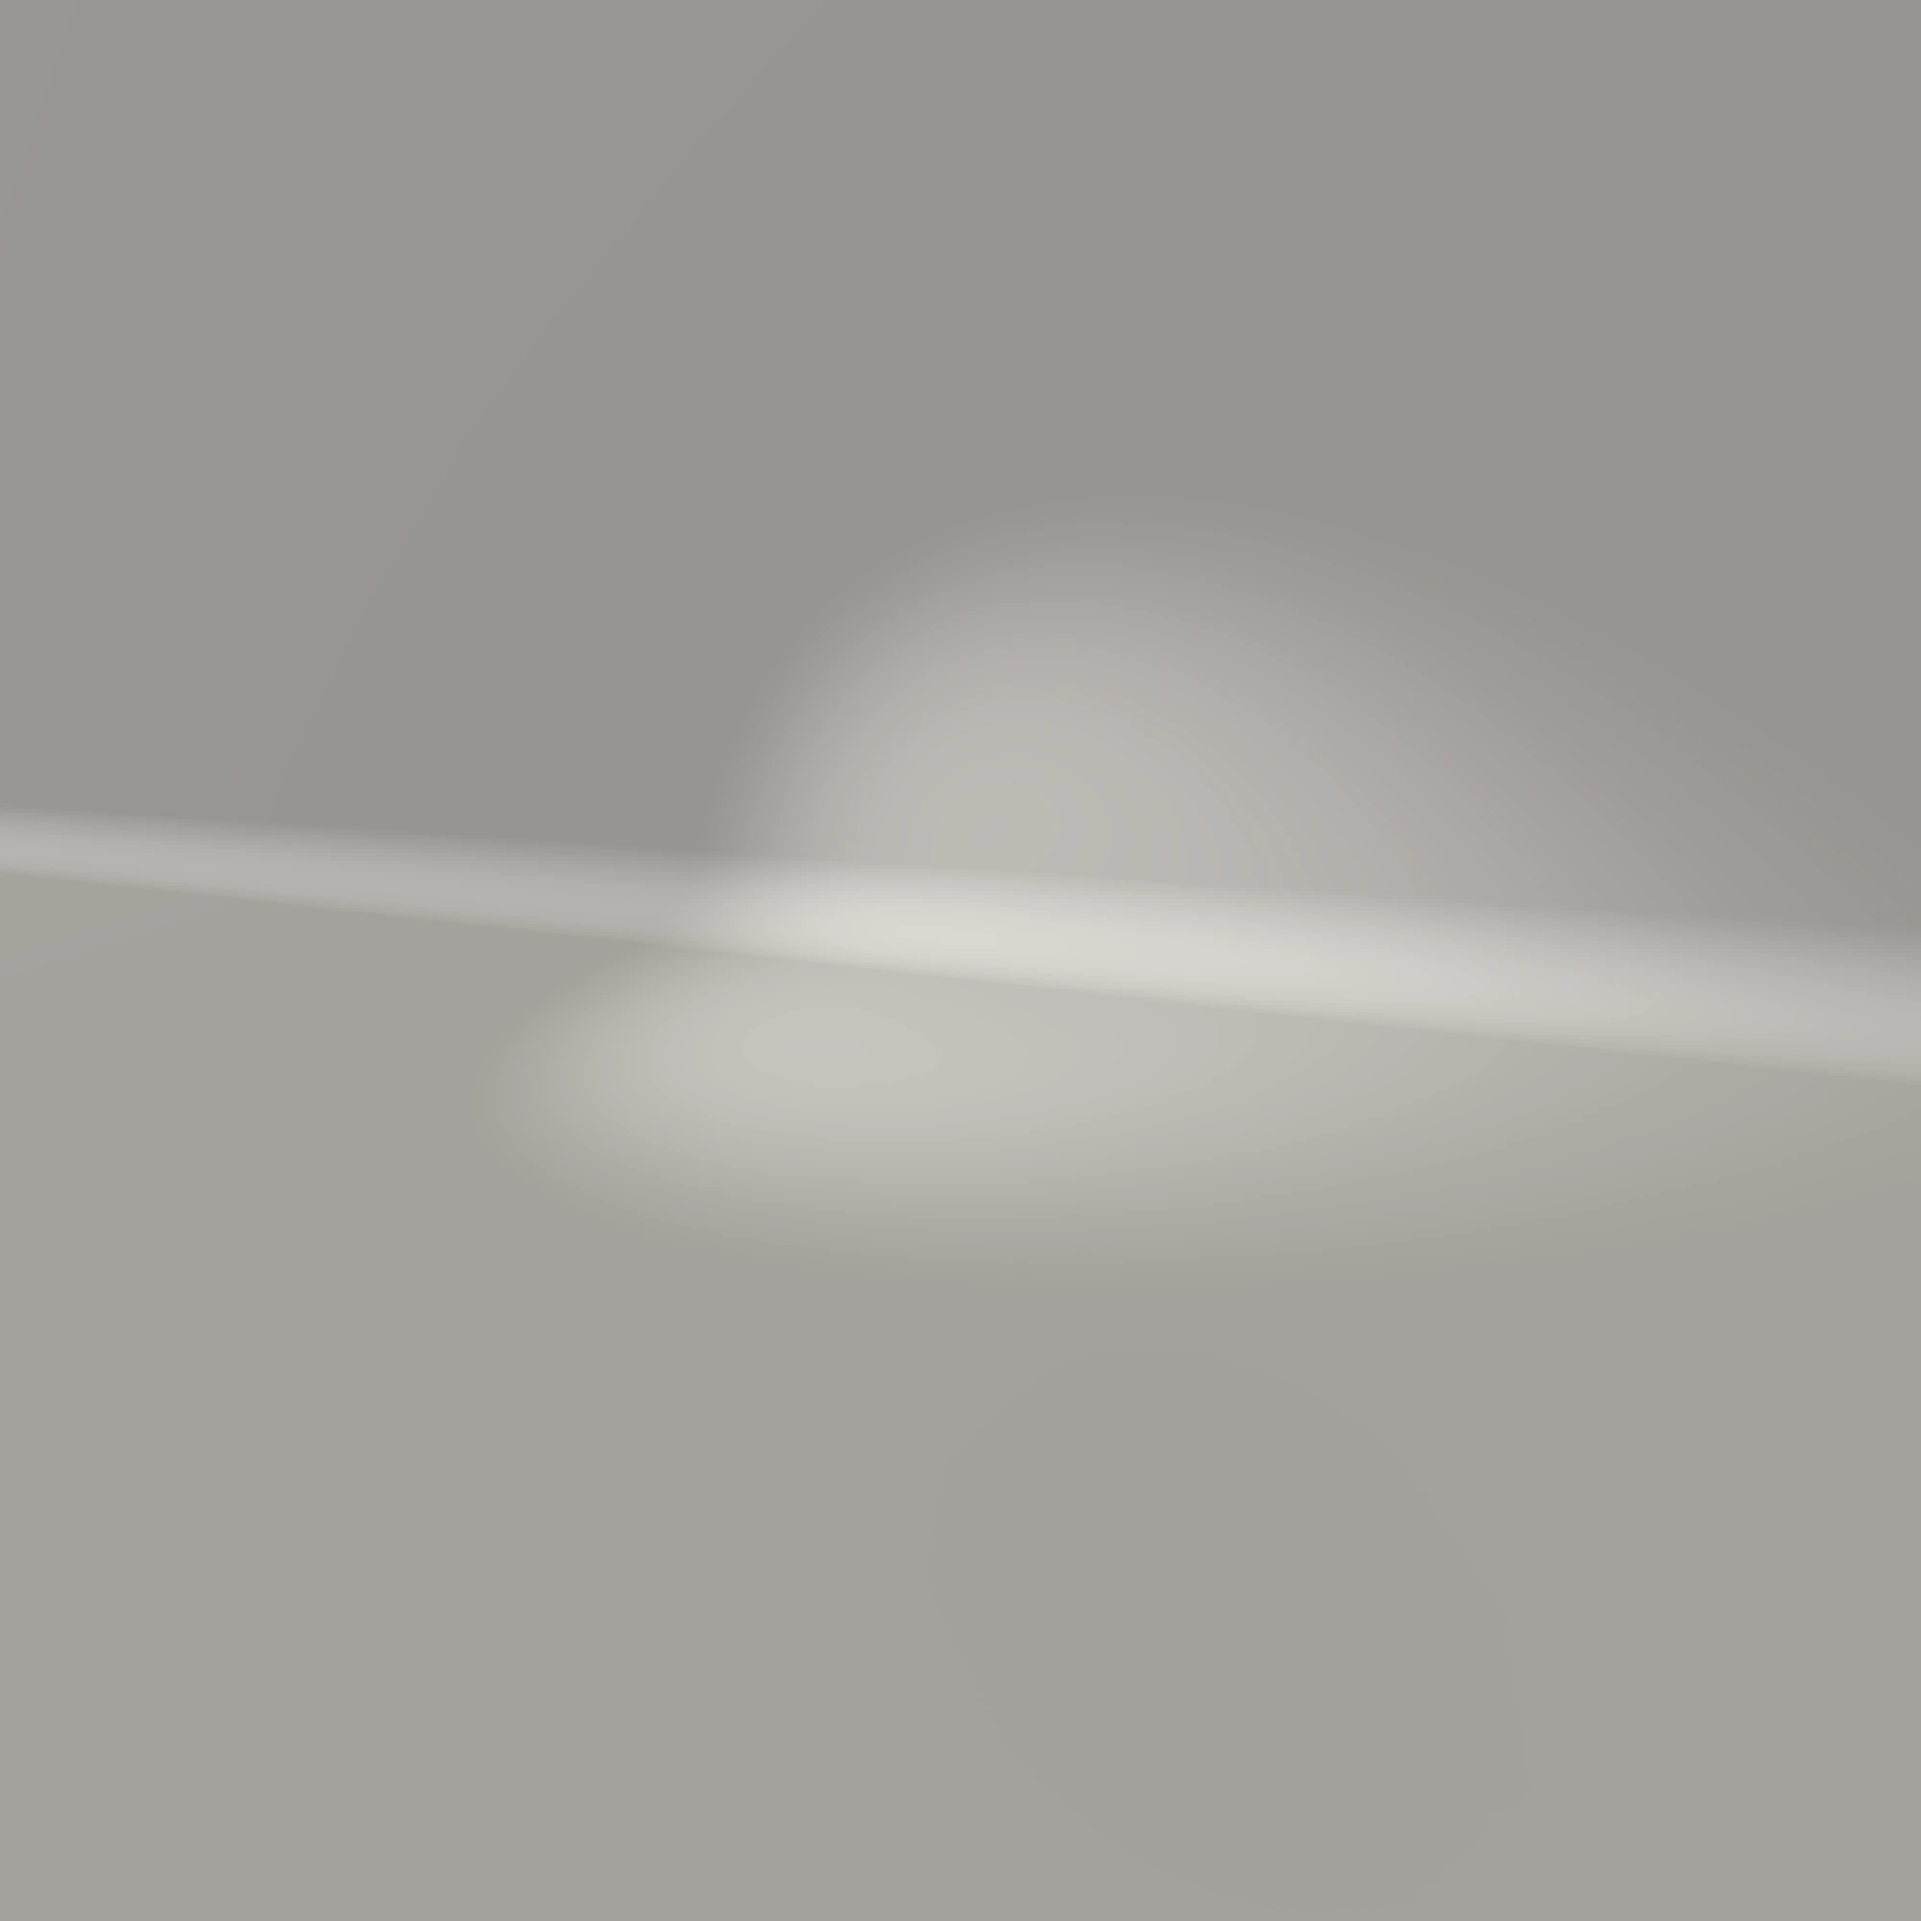
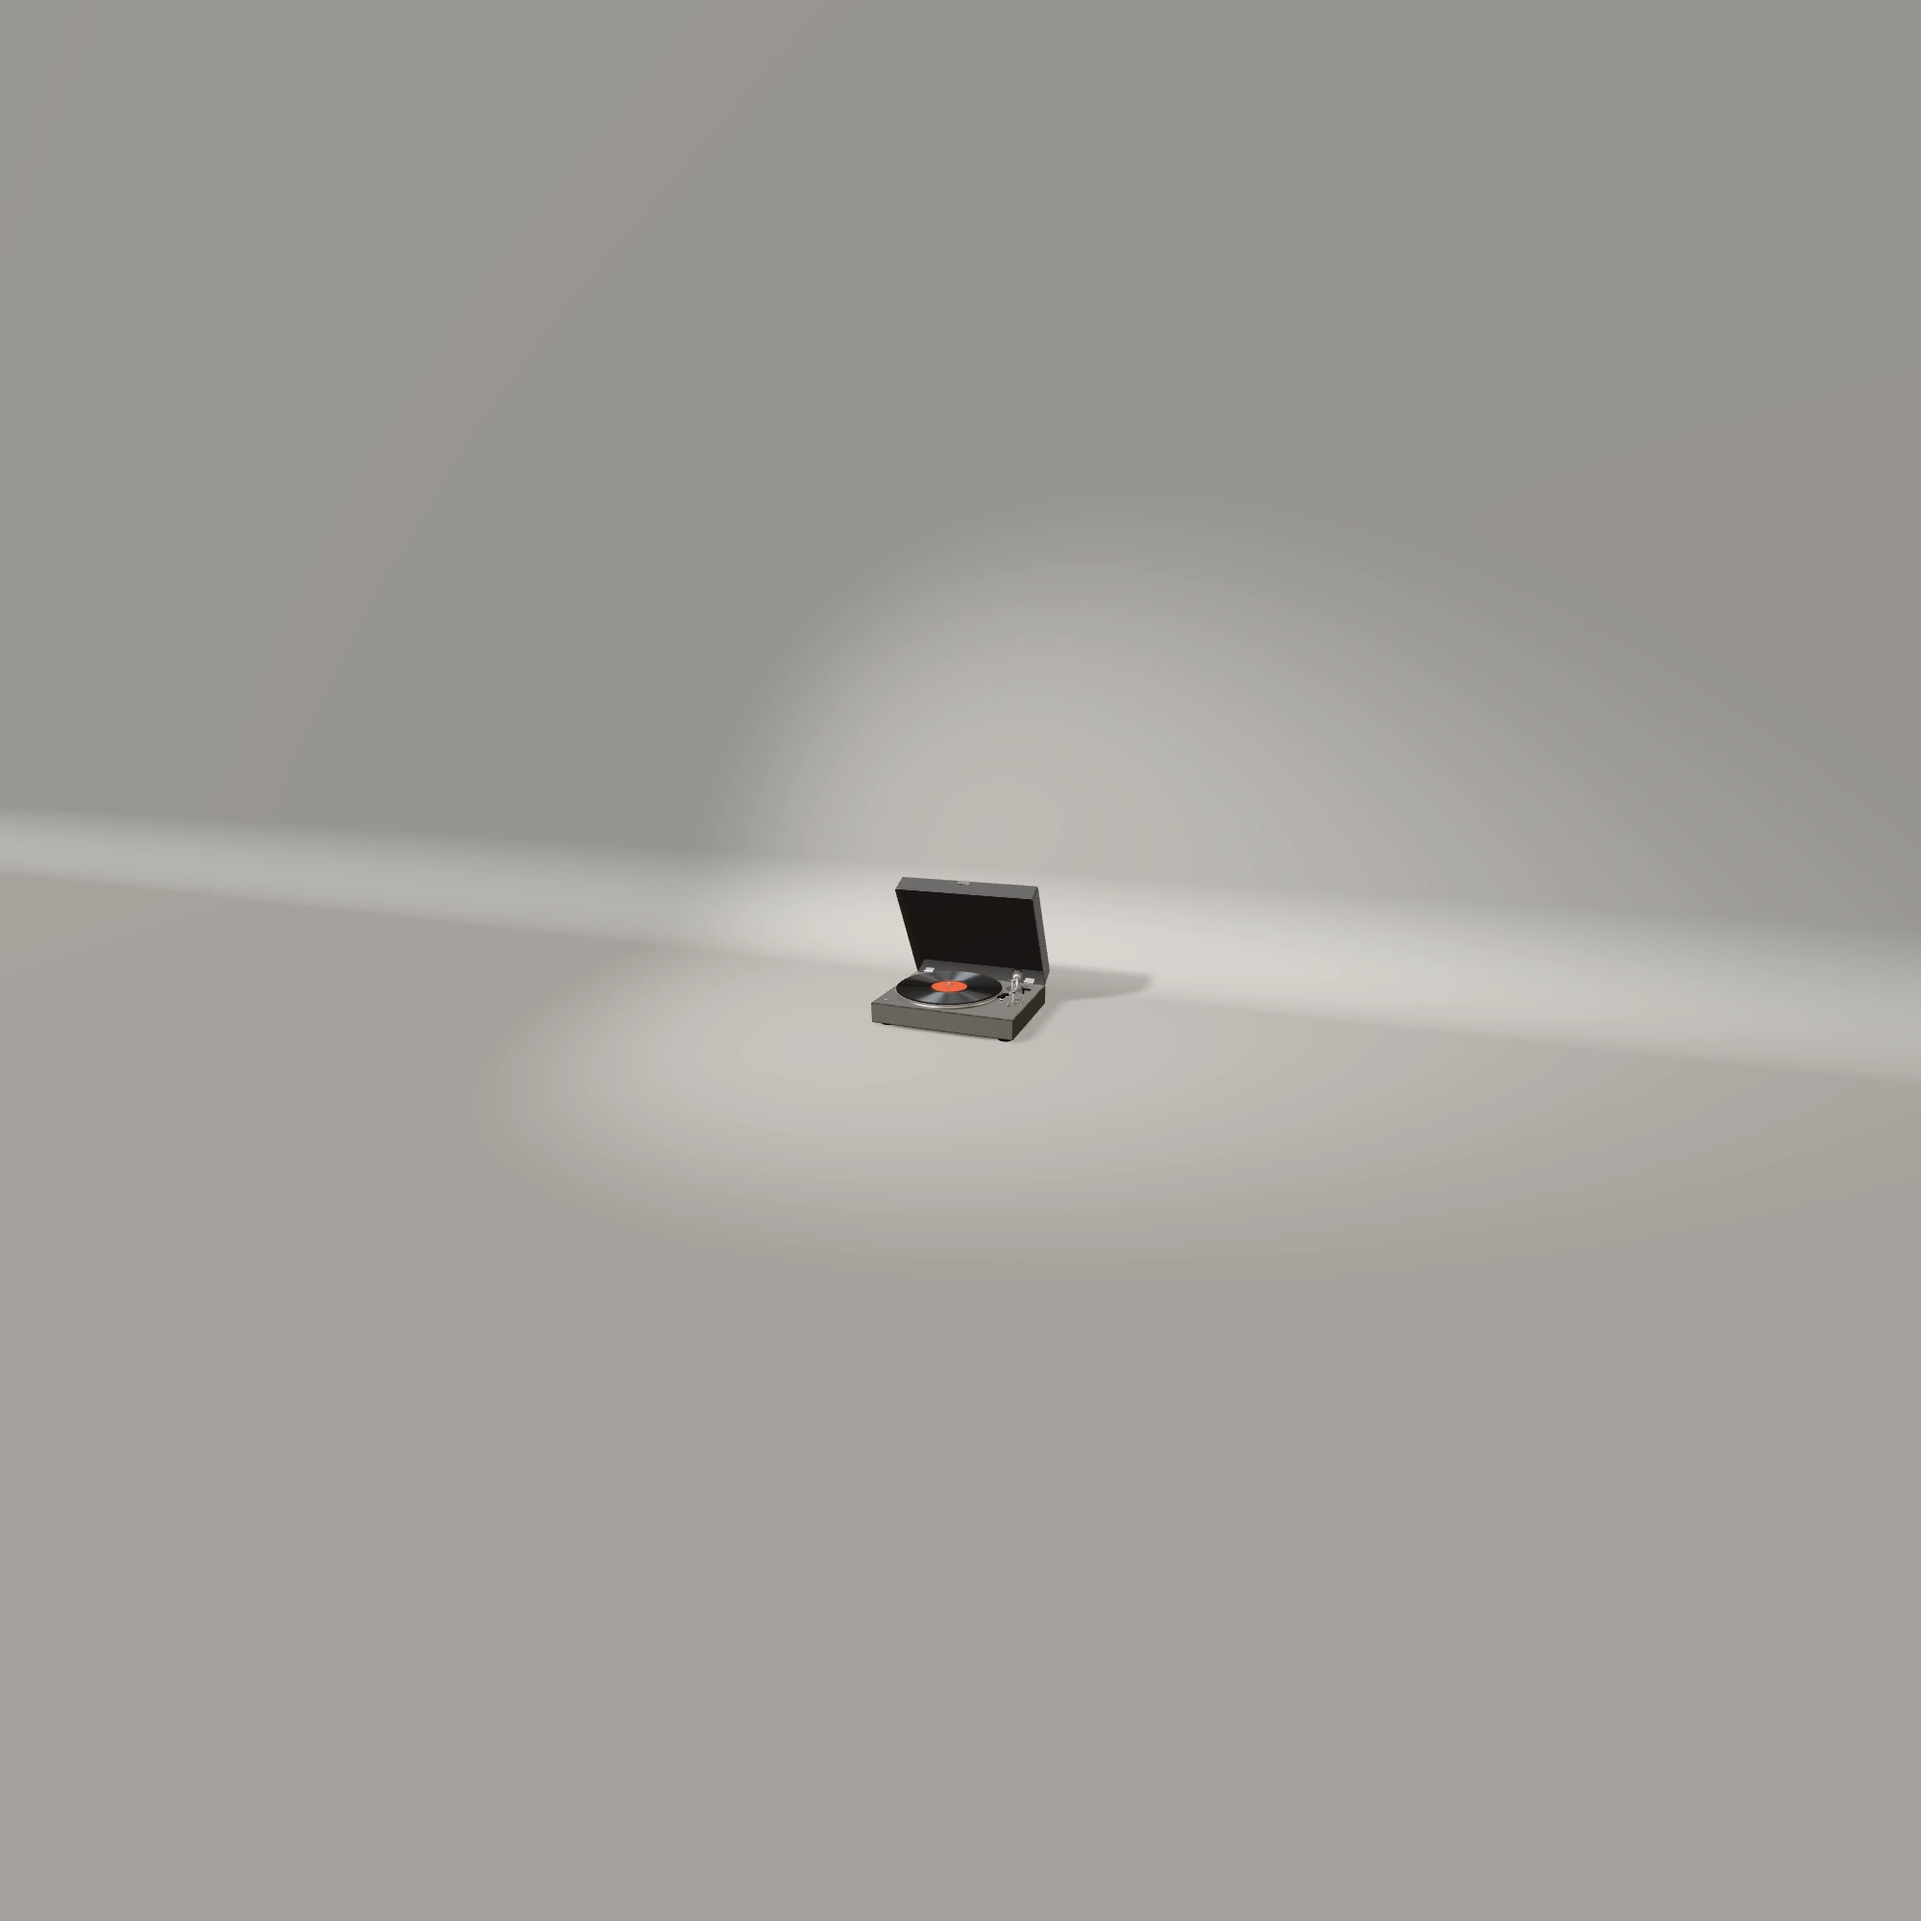
v1.7 posters: backdrops with the scene in them (guest-ready, the declined pose, Dinner's close-up), so shadows, the lanyard and the plate outside the frame square are there before the scene is live

Changed region(s): [[0.434, 0.434, 0.589, 0.558]]

diff --git a/scripts/capture.ts b/scripts/capture.ts
@@ -415,14 +415,20 @@ async function captureUi() {
 }
 
 /**
- * Fullscreen backdrop stills (v1.4): per scene, the bare studio (content hidden) under the
- * production rig at BACKDROP_FIELD (7) × the square frame, centred on the square framing, so the
- * controller can extend a square poster to any viewport with the canvas's framing. Written to
- * assets/scenes/<scene>/backdrop.webp. Re-run after any change to bounds, rig or framing.
+ * Backdrop stills (v1.4): per scene, the studio under the production rig at BACKDROP_FIELD (7) × the
+ * square frame, centred on the square framing, so the controller can extend a square poster to any
+ * viewport (and, v1.7 posters, to a square-layout mount of another aspect) with the canvas's framing.
+ * Written to assets/scenes/<scene>/backdrop.webp. Re-run after any change to bounds, rig or framing.
  * v1.5 decline pull-back: a scene whose decline fit differs from its rest fit (Birthday, Dinner)
- * shows its declined poster at the wider framing, so it also gets backdrop-declined.webp, the bare
- * studio at the declined pose (pull 1); posters.ts serves it for that pose only. v1.7: a scene whose
- * accepted pose is a close-up (Dinner) also gets backdrop-accepted.webp, the close-up with its content.
+ * shows its declined poster at the wider framing, so it also gets backdrop-declined.webp, the studio
+ * at the declined pose (pull 1); posters.ts serves it for that pose only. v1.7: a scene whose
+ * accepted pose is a close-up (Dinner) also gets backdrop-accepted.webp, the close-up.
+ * v1.7 posters: every backdrop is taken *with the scene in it* (v1.4–v1.6: the bare studio, content
+ * hidden), the rest one at guest-ready, each with the posters' config (posterConfig). What the live
+ * view shows outside the frame square — the set's cast shadows on the cove (Sports' hoop, Party's
+ * and Birthday's), Business's lanyard, Dinner's plate — is then there before the scene is live and
+ * does not pop in at the crossfade; and the poster's narrow feather blends it like with like (what
+ * moves stays inside the frame's clearance, under the poster, by the framing rule).
  */
 async function captureBackdrops() {
   await mkdir(outDir, { recursive: true });
@@ -432,11 +438,23 @@ async function captureBackdrops() {
   const { cp, rm } = await import('node:fs/promises');
   const pulled = new Set<string>();
   const closeUps = new Set<string>();
-  const still = () => page.evaluate(() => (window as any).__showcase.controller.captureStill(2000, 1, 'image/webp', 0.92, { empty: true, field: 7 })) as Promise<string>;
+  const still = () => page.evaluate(() => (window as any).__showcase.controller.captureStill(2000, 1, 'image/webp', 0.92, { field: 7 })) as Promise<string>;
   for (const scene of ['business', 'party', 'birthday', 'sports', 'dinner']) {
     await page.goto(`${base}/?scene=${scene}`);
     await page.waitForFunction(() => (window as any).__showcase?.state?.resource === 'ready', null, { timeout: 30_000 });
-    // The rest framing (the page opens at host-ready, pull 0).
+    // The posters' config (Dinner's neutral card), and guest-ready, snapped (reduced motion).
+    await page.evaluate(async (category) => {
+      const load = (path: string) => import(/* @vite-ignore */ path) as Promise<any>;
+      const [{ posterConfig }, { DEFAULT_CONFIGS }] = await Promise.all([load('/src/demo/fixtures.ts'), load('/src/core/types.ts')]);
+      const sc = (window as any).__showcase;
+      sc.setConfig(posterConfig(DEFAULT_CONFIGS[category]));
+      sc.controller.setReducedMotion(true);
+      sc.controller.setMode('guest');
+    }, scene);
+    await page.waitForFunction(() => (window as any).__showcase.state.resource === 'ready', null, { timeout: 30_000 });
+    await page.waitForFunction(() => (window as any).__showcase.state.visual === 'guest-ready');
+    await page.evaluate(() => new Promise((r) => requestAnimationFrame(() => requestAnimationFrame(r))));
+    // The rest framing (pull 0).
     const rest = await page.evaluate(() => (window as any).__showcase.controller.framing().pull);
     if (rest !== 0) throw new Error(`${scene}: the backdrop must be taken at rest (pull ${rest})`);
     await saveDataUrl(join(outDir, `${scene}.webp`), await still());
@@ -444,12 +462,7 @@ async function captureBackdrops() {
     const fit = await page.evaluate(() => (window as any).__showcase.controller.framing());
     if (Math.abs(fit.rest.distance - fit.decline.distance) > 1e-9) {
       // The declined pose, snapped (reduced motion): the stage at pull 1.
-      await page.evaluate(() => {
-        const c = (window as any).__showcase.controller;
-        c.setReducedMotion(true);
-        c.setMode('guest');
-        c.chooseResponse('decline');
-      });
+      await page.evaluate(() => (window as any).__showcase.controller.chooseResponse('decline'));
       await page.waitForFunction(() => (window as any).__showcase.state.visual === 'declined-pose');
       await page.evaluate(() => new Promise((r) => requestAnimationFrame(() => requestAnimationFrame(r))));
       const pull = await page.evaluate(() => (window as any).__showcase.controller.framing().pull);
@@ -460,25 +473,14 @@ async function captureBackdrops() {
     }
     if (fit.closeUp) {
       // v1.7 (#42): a scene whose accepted pose is a close-up (Dinner's card): its own backdrop, the
-      // close-up at the same field with the scene in it (the plate runs past the poster's edges).
-      // v1.7 polish (#41): with the posters' neutral print (posterConfig), as its poster has.
-      await page.evaluate(async (category) => {
-        const load = (path: string) => import(/* @vite-ignore */ path) as Promise<any>;
-        const [{ posterConfig }, { DEFAULT_CONFIGS }] = await Promise.all([load('/src/demo/fixtures.ts'), load('/src/core/types.ts')]);
-        (window as any).__showcase.setConfig(posterConfig(DEFAULT_CONFIGS[category]));
-      }, scene);
-      await page.evaluate(() => {
-        const c = (window as any).__showcase.controller;
-        c.setReducedMotion(true);
-        c.setMode('guest');
-        c.chooseResponse('accept');
-      });
+      // close-up at the same field (the plate runs past the poster's edges), with the posters'
+      // neutral print (v1.7 polish, #41; set above).
+      await page.evaluate(() => (window as any).__showcase.controller.chooseResponse('accept'));
       await page.waitForFunction(() => (window as any).__showcase.state.visual === 'accepted-pose');
       await page.evaluate(() => new Promise((r) => requestAnimationFrame(() => requestAnimationFrame(r))));
       const close = await page.evaluate(() => (window as any).__showcase.controller.framing().close);
       if (close !== 1) throw new Error(`${scene}: the accepted backdrop must be taken on the close-up (got ${close})`);
-      const full = await page.evaluate(() => (window as any).__showcase.controller.captureStill(2000, 1, 'image/webp', 0.92, { field: 7 })) as string;
-      await saveDataUrl(join(outDir, `${scene}-accepted.webp`), full);
+      await saveDataUrl(join(outDir, `${scene}-accepted.webp`), await still());
       closeUps.add(scene);
       console.log('backdrop', scene, 'accepted (close-up)');
     }
